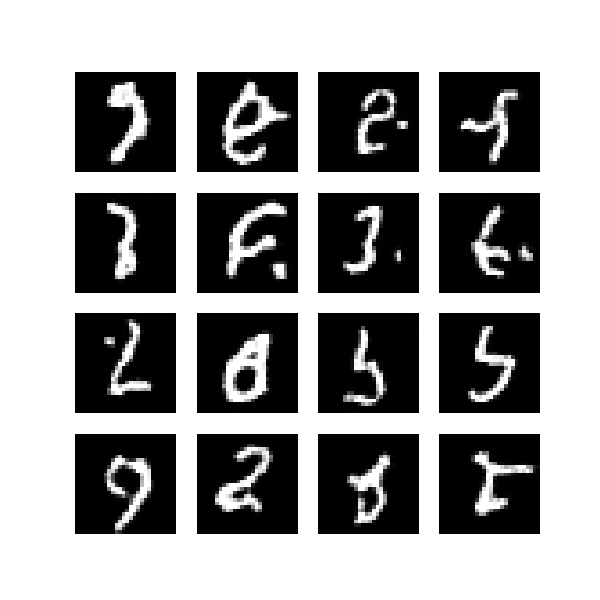
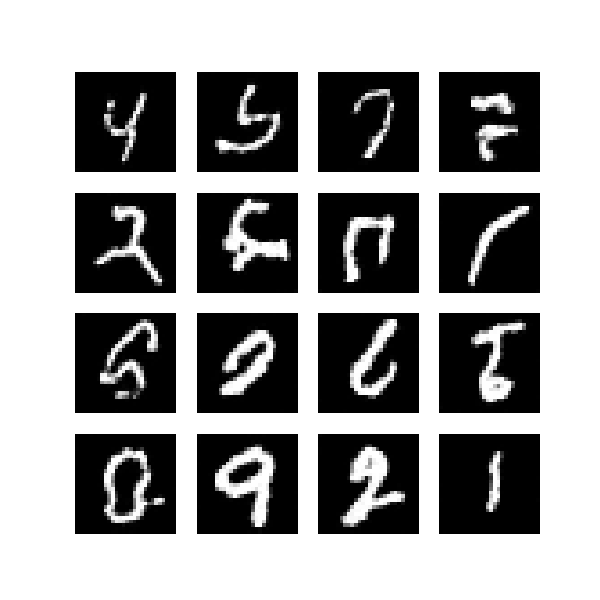
feat(input): scale images

diff --git a/main.py b/main.py
@@ -53,7 +53,7 @@ def generate_samples(model_path="model.pt", num_samples=16, img_size=28):
 
 if __name__ == "__main__":
     # Train the model (weights will be saved automatically)
-    #model = train(model_name="model_v6_unet.pt")
+    #model = train(model_name="model_v7.pt")
 
     # Optional: visualize noisy images at different timesteps
     #visualize_noisy_images()
@@ -62,4 +62,4 @@ if __name__ == "__main__":
     #test_model_forward()
 
     # Generate new MNIST samples using the trained model
-    generate_samples("models/model_v6_unet.pt")
+    generate_samples("models/model_v7.pt")

diff --git a/data_loader.py b/data_loader.py
@@ -4,6 +4,7 @@ from torchvision import datasets, transforms
 def get_mnist_dataloader(batch_size=16, train=True):
     transform = transforms.Compose([
         transforms.ToTensor(),
+        transforms.Normalize(0.5, 0.5),
     ])
     dataset = datasets.MNIST(root='./data', train=train, download=True, transform=transform)
     loader = torch.utils.data.DataLoader(dataset, batch_size=batch_size, shuffle=train)

diff --git a/sampler.py b/sampler.py
@@ -39,6 +39,7 @@ def sample(model, num_samples, img_size, max_timestep=1000, beta_start=1e-4, bet
             x_t = x_0_pred  # last step, no noise
 
     # Clamp output to [0,1] for greyscale images
-    x_t = x_t.clamp(0.0, 1.0)
+    x_t = (x_t + 1) / 2
+    x_t = x_t.clamp(0, 1)
 
     return x_t
